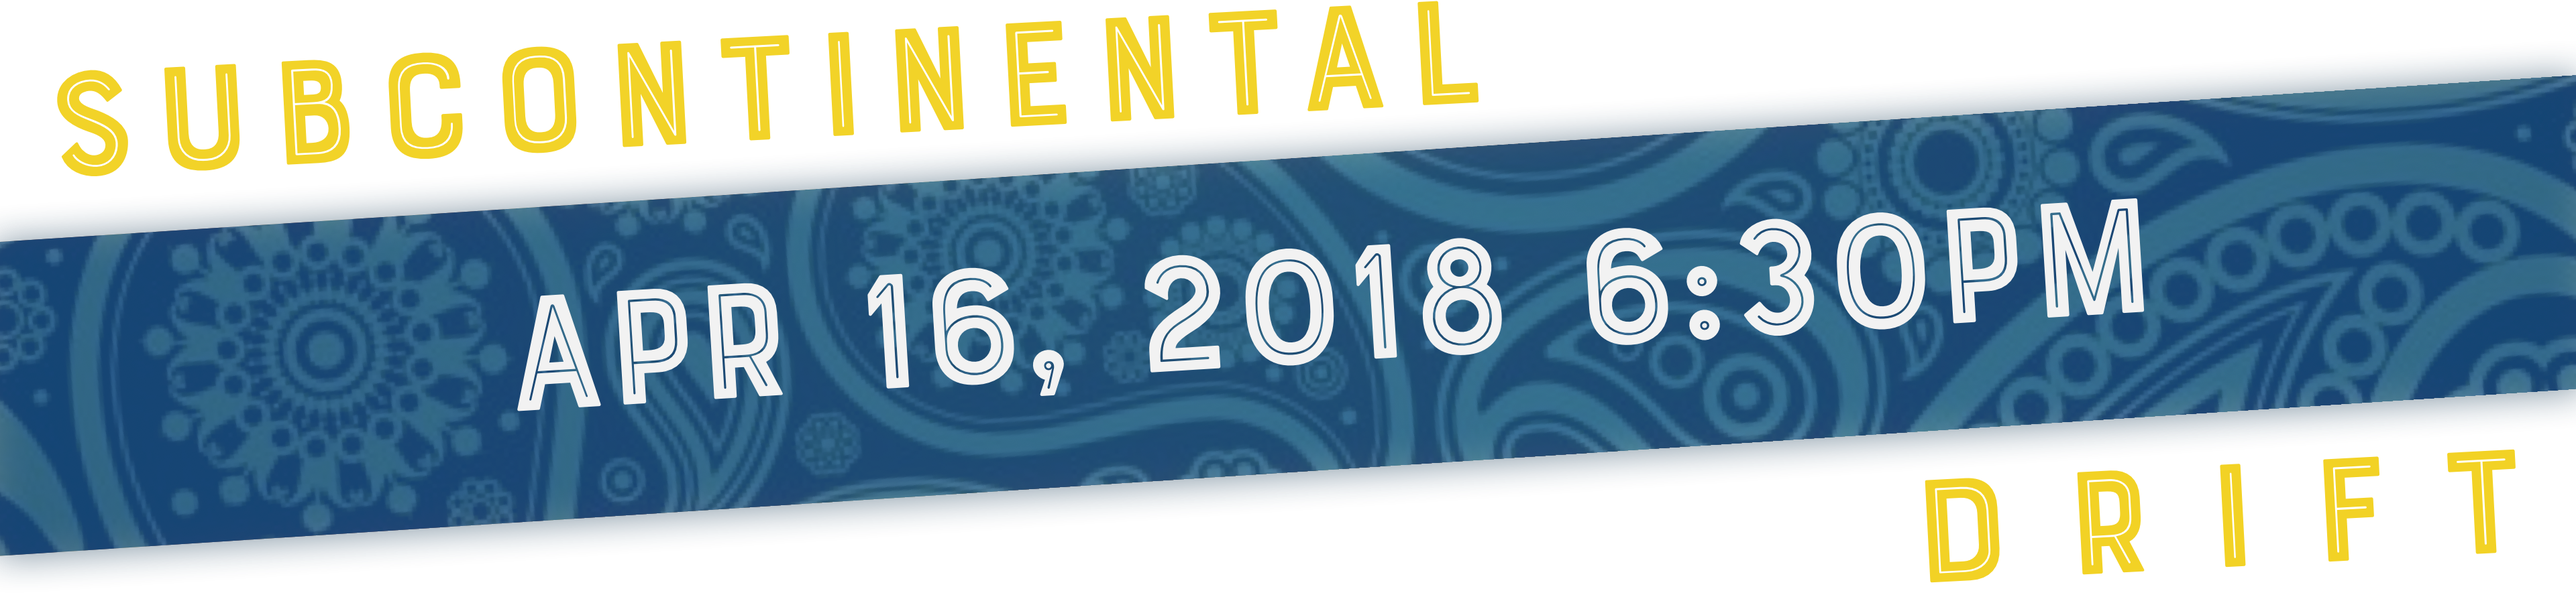
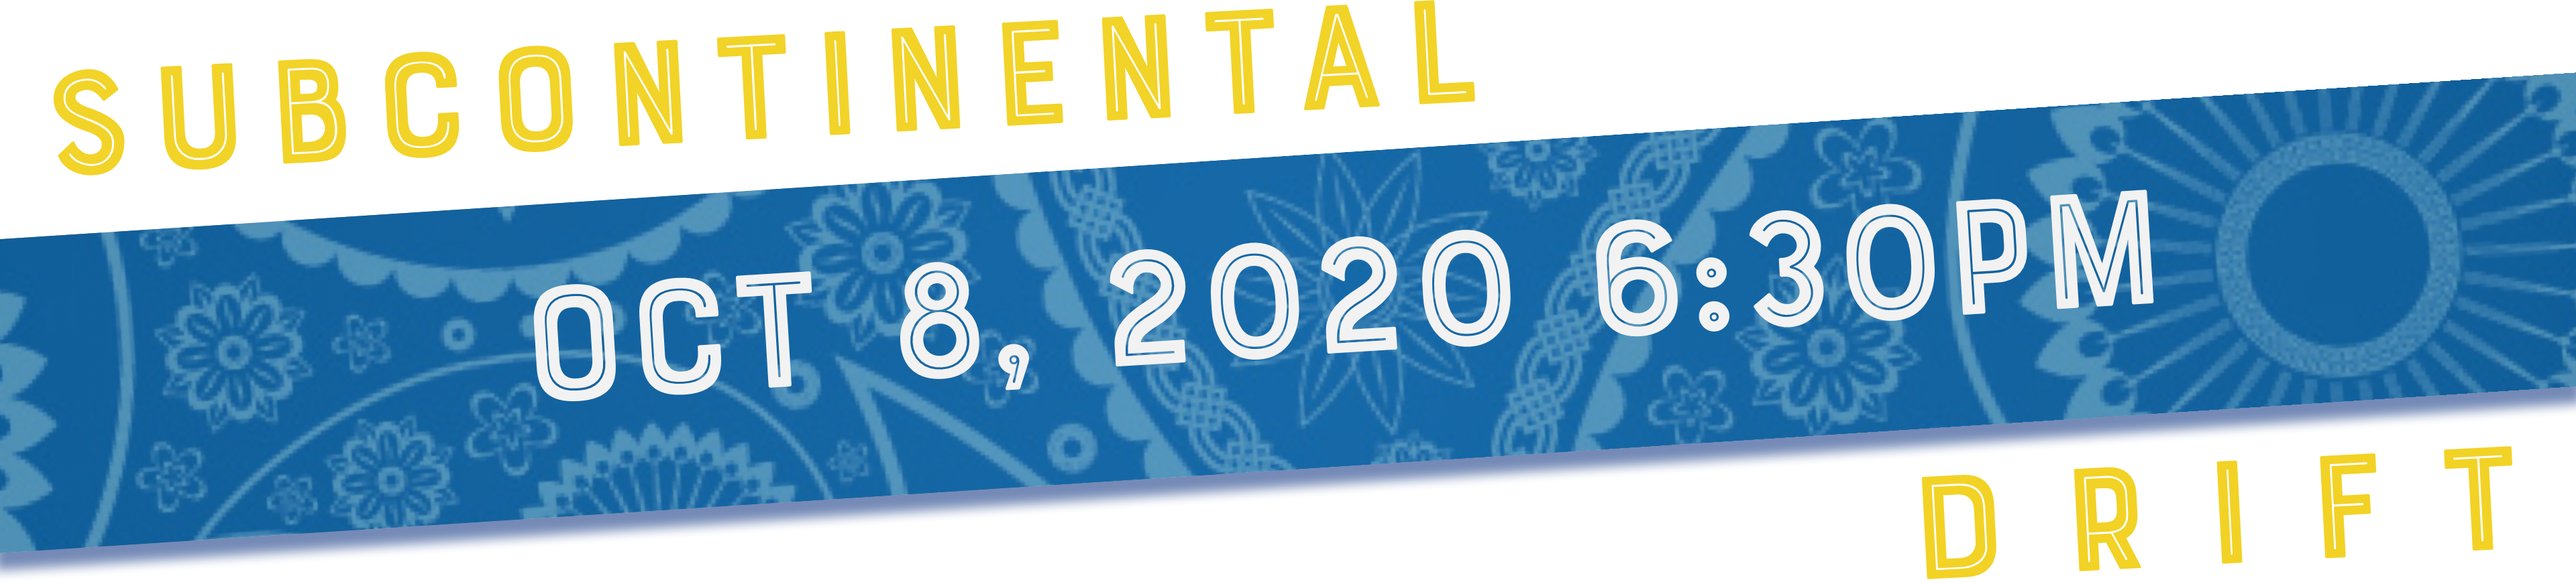
updating date

diff --git a/README.md b/README.md
@@ -1,6 +1,6 @@
 
 
-# Subcontinental Drift Website 2018
+# Subcontinental Drift Website 2020
 
 Using middleman to deploy static site on netlify.   Anything deployed to master is automatically pushed live.
 
